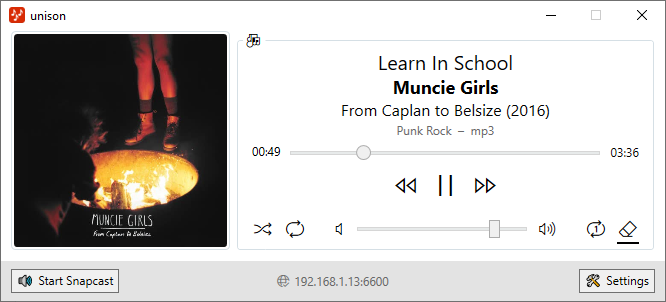
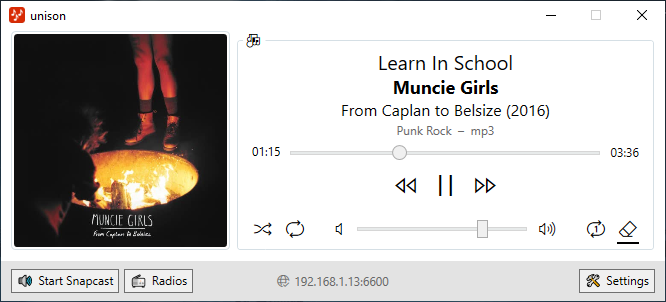
Update readme and screenshots for radios feature

diff --git a/README.md b/README.md
@@ -7,6 +7,7 @@
 * lightweight window that can be toggled with shortcuts
 * music control through shortcuts
 * [Snapcast](https://mjaggard.github.io/snapcast/) integration
+* Radio stations
 
 ## Features
 
@@ -26,6 +27,12 @@ You can control your music at anytime with the shortcuts. They can of course be 
 
 The main goal of embedding Snapcast is the ability to listen locally to music when I'm not using my main audio system. The computer running unison can then play music easily.
 
+### Radio stations
+
+Through [Radio-Browser](https://www.radio-browser.info), a community database, you can play radio-streams directly from unison. There are more than 28,000 stations recorded on this service, so it should be a nice way to discover new music and cultures.
+
+![Radio stations](Screenshots/screen4.png)
+
 ## Caveats
 
 ### Missing features
@@ -37,7 +44,6 @@ The main goal of embedding Snapcast is the ability to listen locally to music wh
 ### Wanted features
 
 * A complete shuffle system based on set criteria, aka a smart playlist.
-* Radio integration.
 
 ## Translations
 
